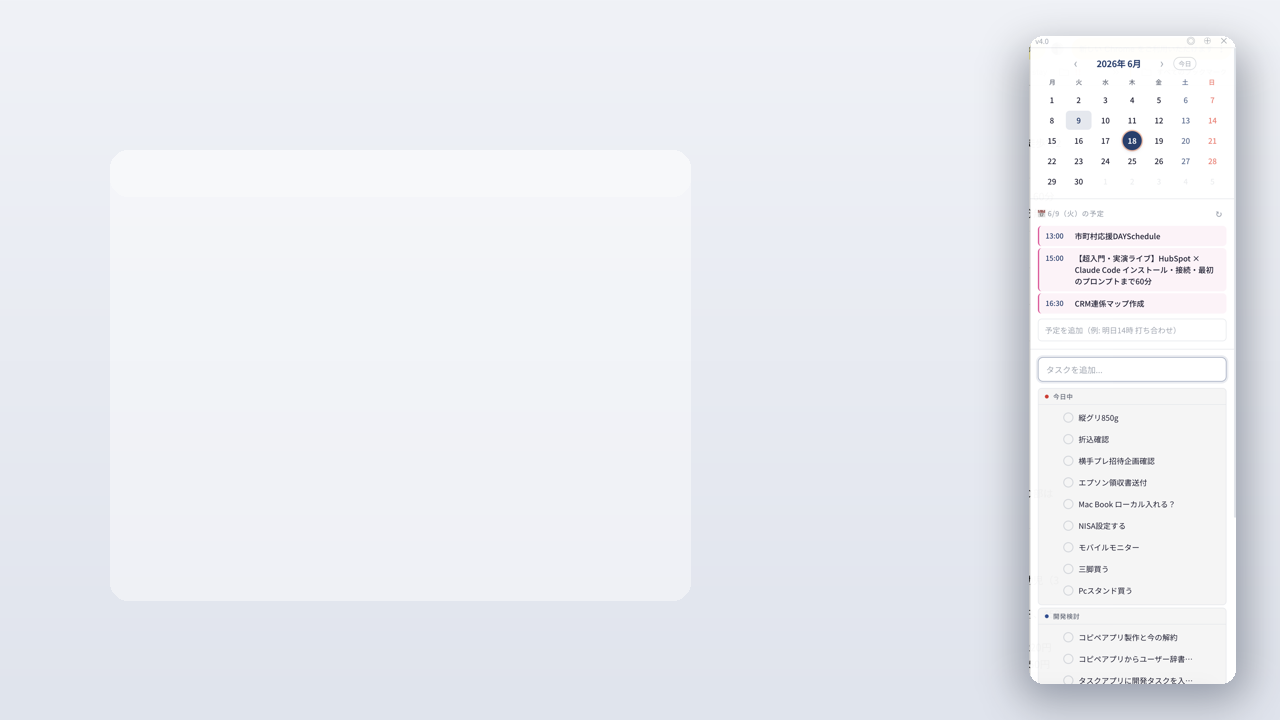
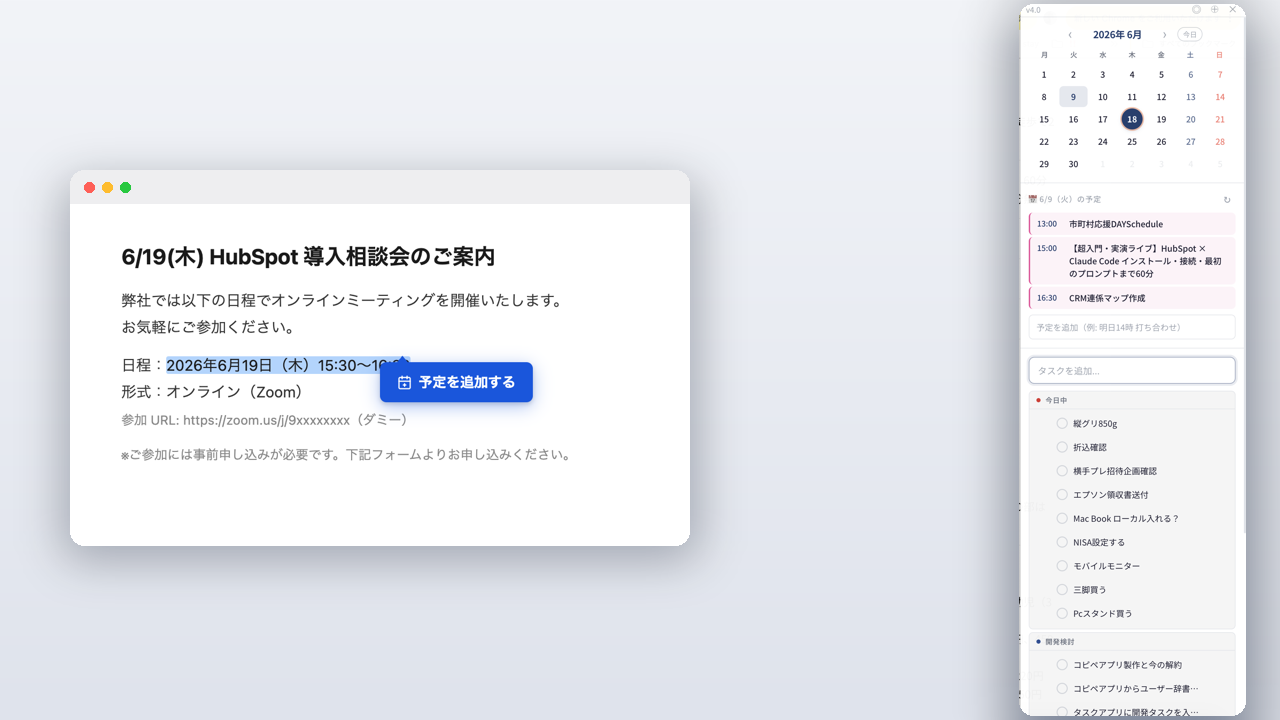
feat: タスクバーカードをPC全画面モックに刷新(全面表示)

diff --git a/apps.js b/apps.js
@@ -50,6 +50,7 @@ const APPS = [
     status: "公開中",
     icon: "sidebar",
     image: "assets/taskbar-card.png",
+    imageFull: true,
     links: [
       { label: "紹介・導入", url: "https://ryuiyamada.github.io/task-sidebar/", primary: true },
       { label: "GitHub", url: "https://github.com/RYUIYAMADA/yotei-tsuika" }
@@ -335,38 +336,59 @@ function buildCard(app) {
 
   // ── 画像エリア（16:9 統一）
   const imageWrap = document.createElement('div');
-  imageWrap.className = 'card-image-wrap';
+  imageWrap.className = app.imageFull
+    ? 'card-image-wrap is-full'
+    : 'card-image-wrap';
 
-  // ウィンドウ風トップバー（信号機ドット3つ）
-  const winBar = document.createElement('div');
-  winBar.className = 'card-win-bar';
-  winBar.setAttribute('aria-hidden', 'true');
-  for (let i = 0; i < 3; i++) {
-    const dot = document.createElement('span');
-    dot.className = 'card-win-bar-dot';
-    winBar.appendChild(dot);
-  }
-  imageWrap.appendChild(winBar);
-
-  // 画像ステージ（淡色地＋余白でスクショが浮いて見える）
-  const stage = document.createElement('div');
-  stage.className = 'card-image-stage';
-
-  if (app.image) {
-    const img = document.createElement('img');
-    img.src = app.image;
-    img.alt = `${app.name} のスクリーンショット`;
-    img.loading = 'lazy';
-    // 読み込みエラー時はプレースホルダにフォールバック
-    img.onerror = function() {
-      stage.innerHTML = '';
-      stage.appendChild(buildImagePlaceholder());
-    };
-    stage.appendChild(img);
+  if (app.imageFull) {
+    // fullbleed: 信号機バー・ステージ余白なし。画像をwrap全面に表示
+    if (app.image) {
+      const img = document.createElement('img');
+      img.className = 'card-image-full';
+      img.src = app.image;
+      img.alt = `${app.name} のスクリーンショット`;
+      img.loading = 'lazy';
+      img.onerror = function() {
+        imageWrap.innerHTML = '';
+        imageWrap.appendChild(buildImagePlaceholder());
+      };
+      imageWrap.appendChild(img);
+    } else {
+      imageWrap.appendChild(buildImagePlaceholder());
+    }
   } else {
-    stage.appendChild(buildImagePlaceholder());
+    // 通常: ウィンドウ風トップバー（信号機ドット3つ）＋ステージ余白
+    const winBar = document.createElement('div');
+    winBar.className = 'card-win-bar';
+    winBar.setAttribute('aria-hidden', 'true');
+    for (let i = 0; i < 3; i++) {
+      const dot = document.createElement('span');
+      dot.className = 'card-win-bar-dot';
+      winBar.appendChild(dot);
+    }
+    imageWrap.appendChild(winBar);
+
+    // 画像ステージ（淡色地＋余白でスクショが浮いて見える）
+    const stage = document.createElement('div');
+    stage.className = 'card-image-stage';
+
+    if (app.image) {
+      const img = document.createElement('img');
+      img.src = app.image;
+      img.alt = `${app.name} のスクリーンショット`;
+      img.loading = 'lazy';
+      // 読み込みエラー時はプレースホルダにフォールバック
+      img.onerror = function() {
+        stage.innerHTML = '';
+        stage.appendChild(buildImagePlaceholder());
+      };
+      stage.appendChild(img);
+    } else {
+      stage.appendChild(buildImagePlaceholder());
+    }
+    imageWrap.appendChild(stage);
   }
-  imageWrap.appendChild(stage);
+
   card.appendChild(imageWrap);
 
   // ── カード本文エリア

diff --git a/style.css b/style.css
@@ -384,6 +384,25 @@ a:hover { text-decoration: underline; }
   box-shadow: 0 6px 18px rgba(7, 51, 101, 0.14);
 }
 
+/* fullbleed バリアント（imageFull: true のカード用）
+   ─ 信号機バー・stageの余白なし
+   ─ 画像がcard-image-wrapを全面被覆
+   ─ 16:9サイズはcard-image-wrapのaspect-ratioで統一維持 */
+.card-image-wrap.is-full {
+  background: #000;  /* 読み込み前の暗色地（モック画像の端が黒いため統一） */
+  padding: 0;
+  flex-direction: row;
+}
+
+.card-image-full {
+  display: block;
+  width: 100%;
+  height: 100%;
+  object-fit: cover;
+  object-position: center;
+  border-radius: var(--radius-lg) var(--radius-lg) 0 0;
+}
+
 /* プレースホルダ（image未指定 or 読み込みエラー時） */
 .card-image-placeholder {
   width: 100%;
